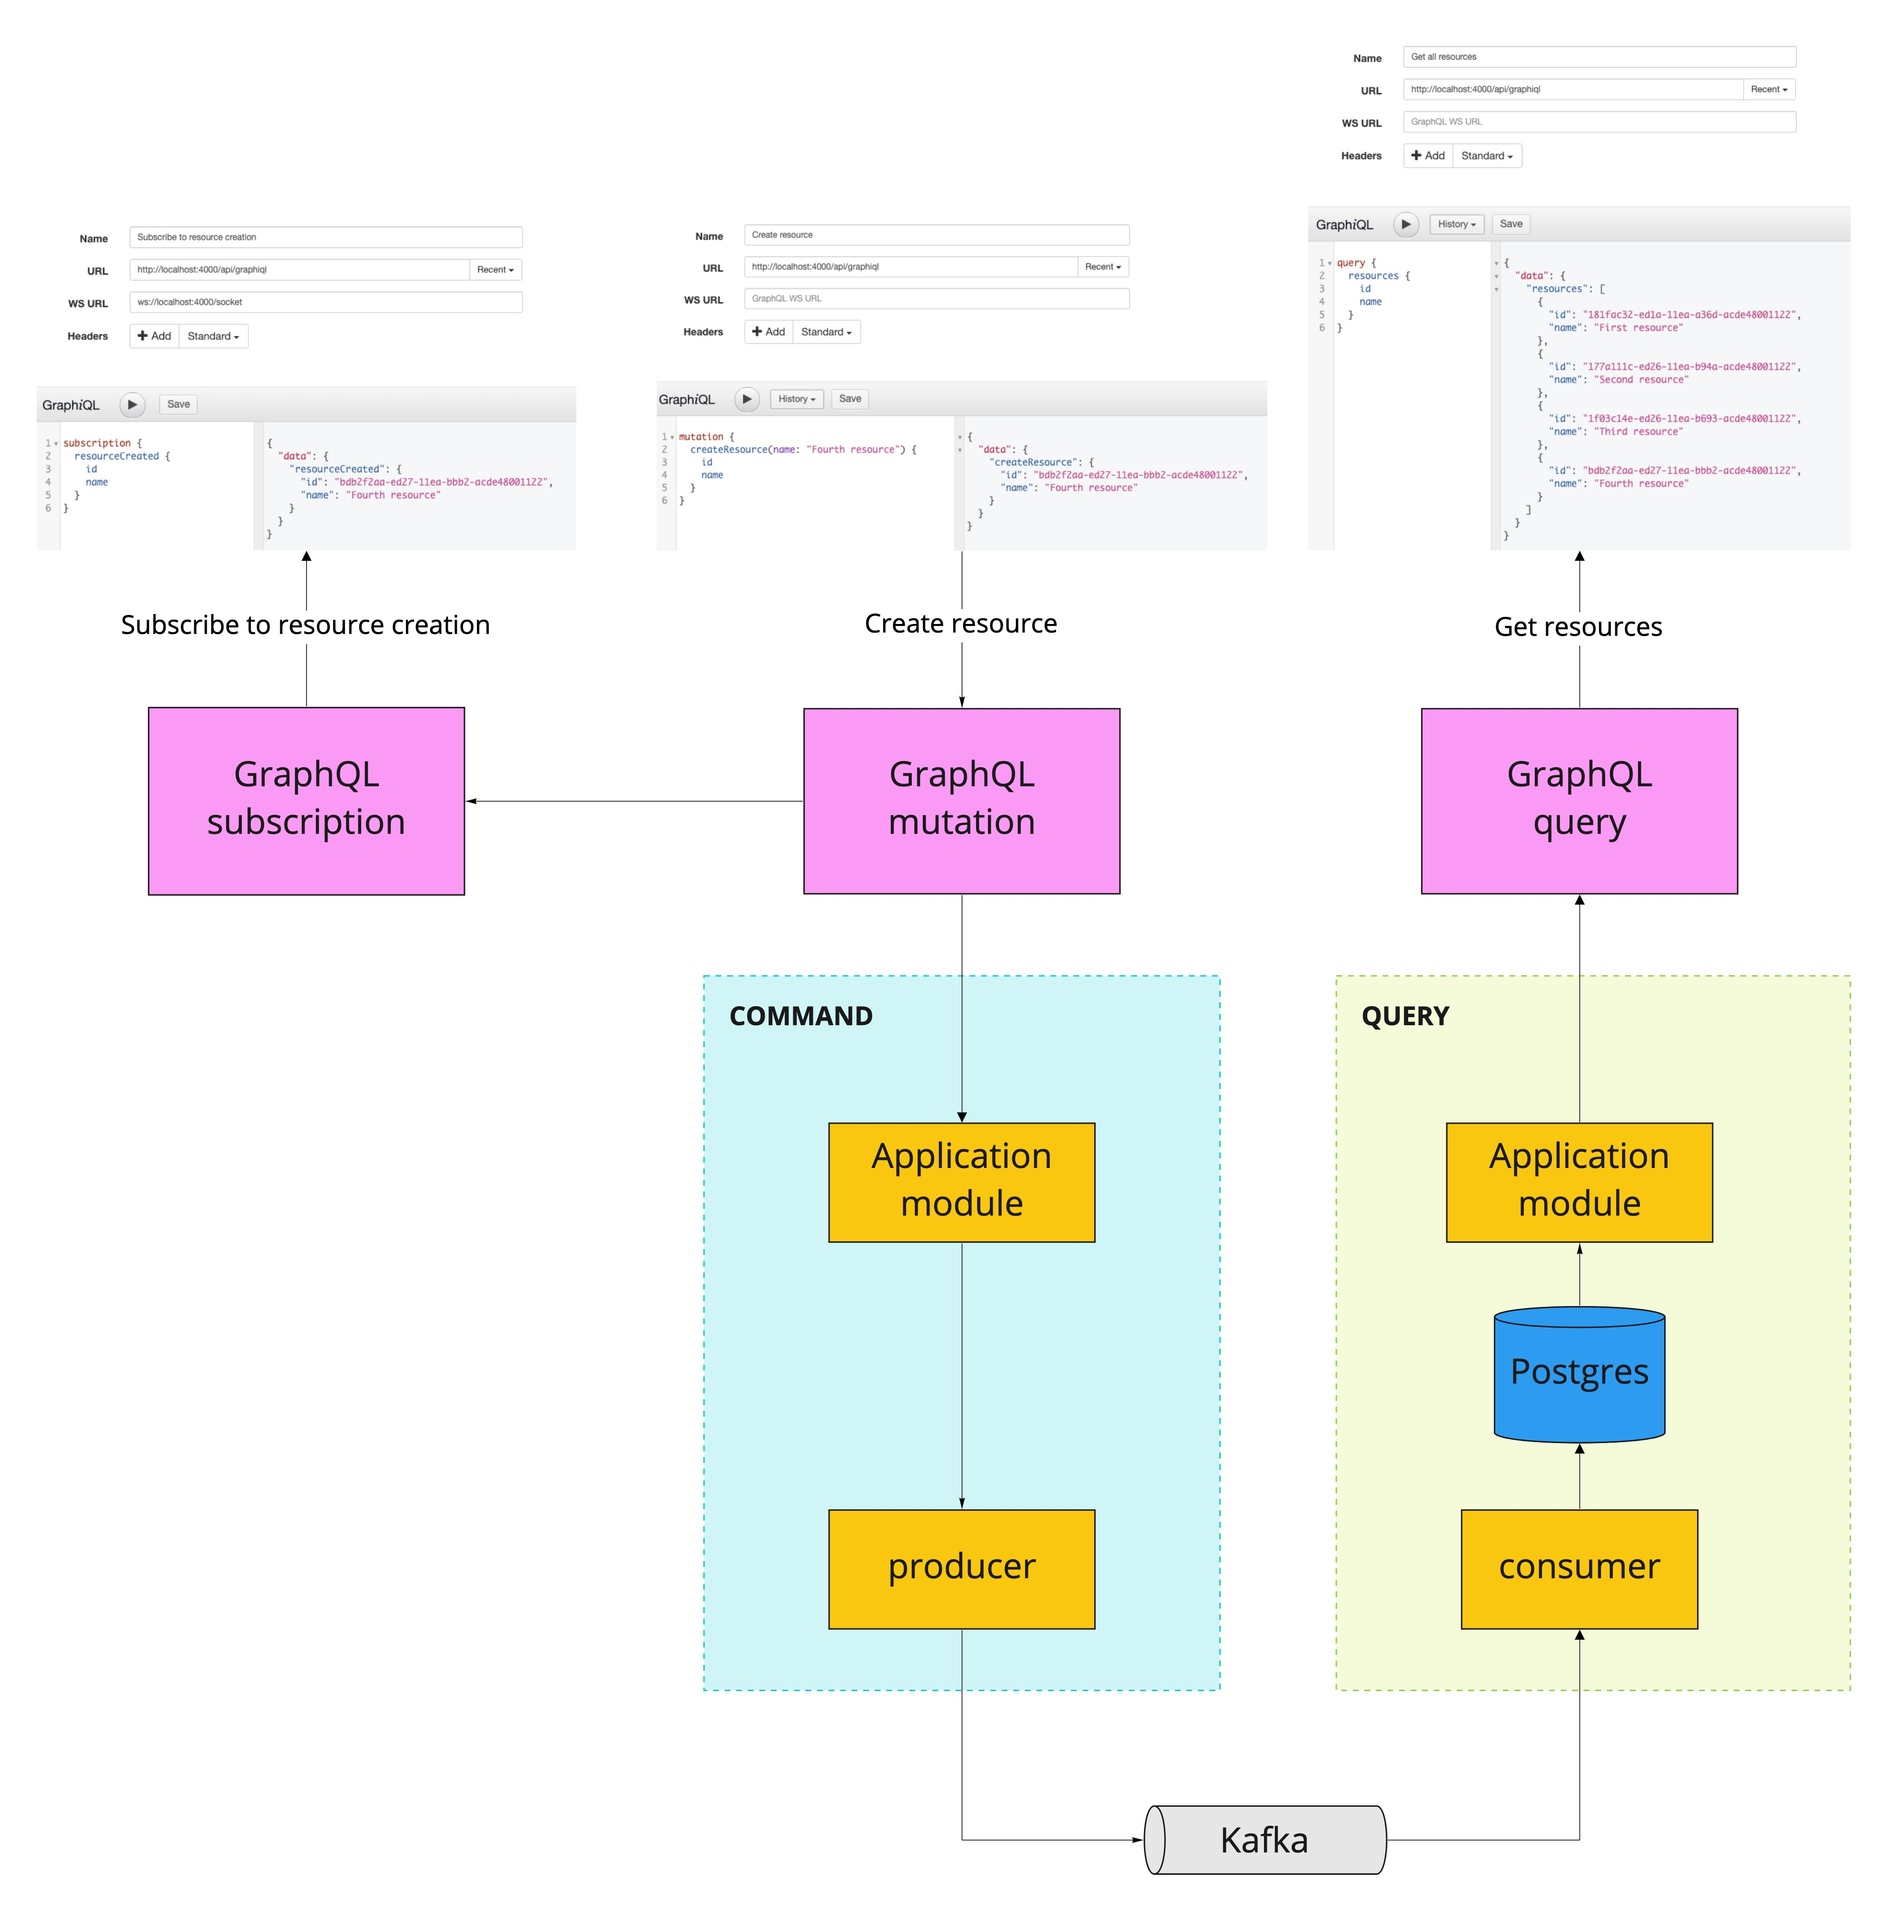
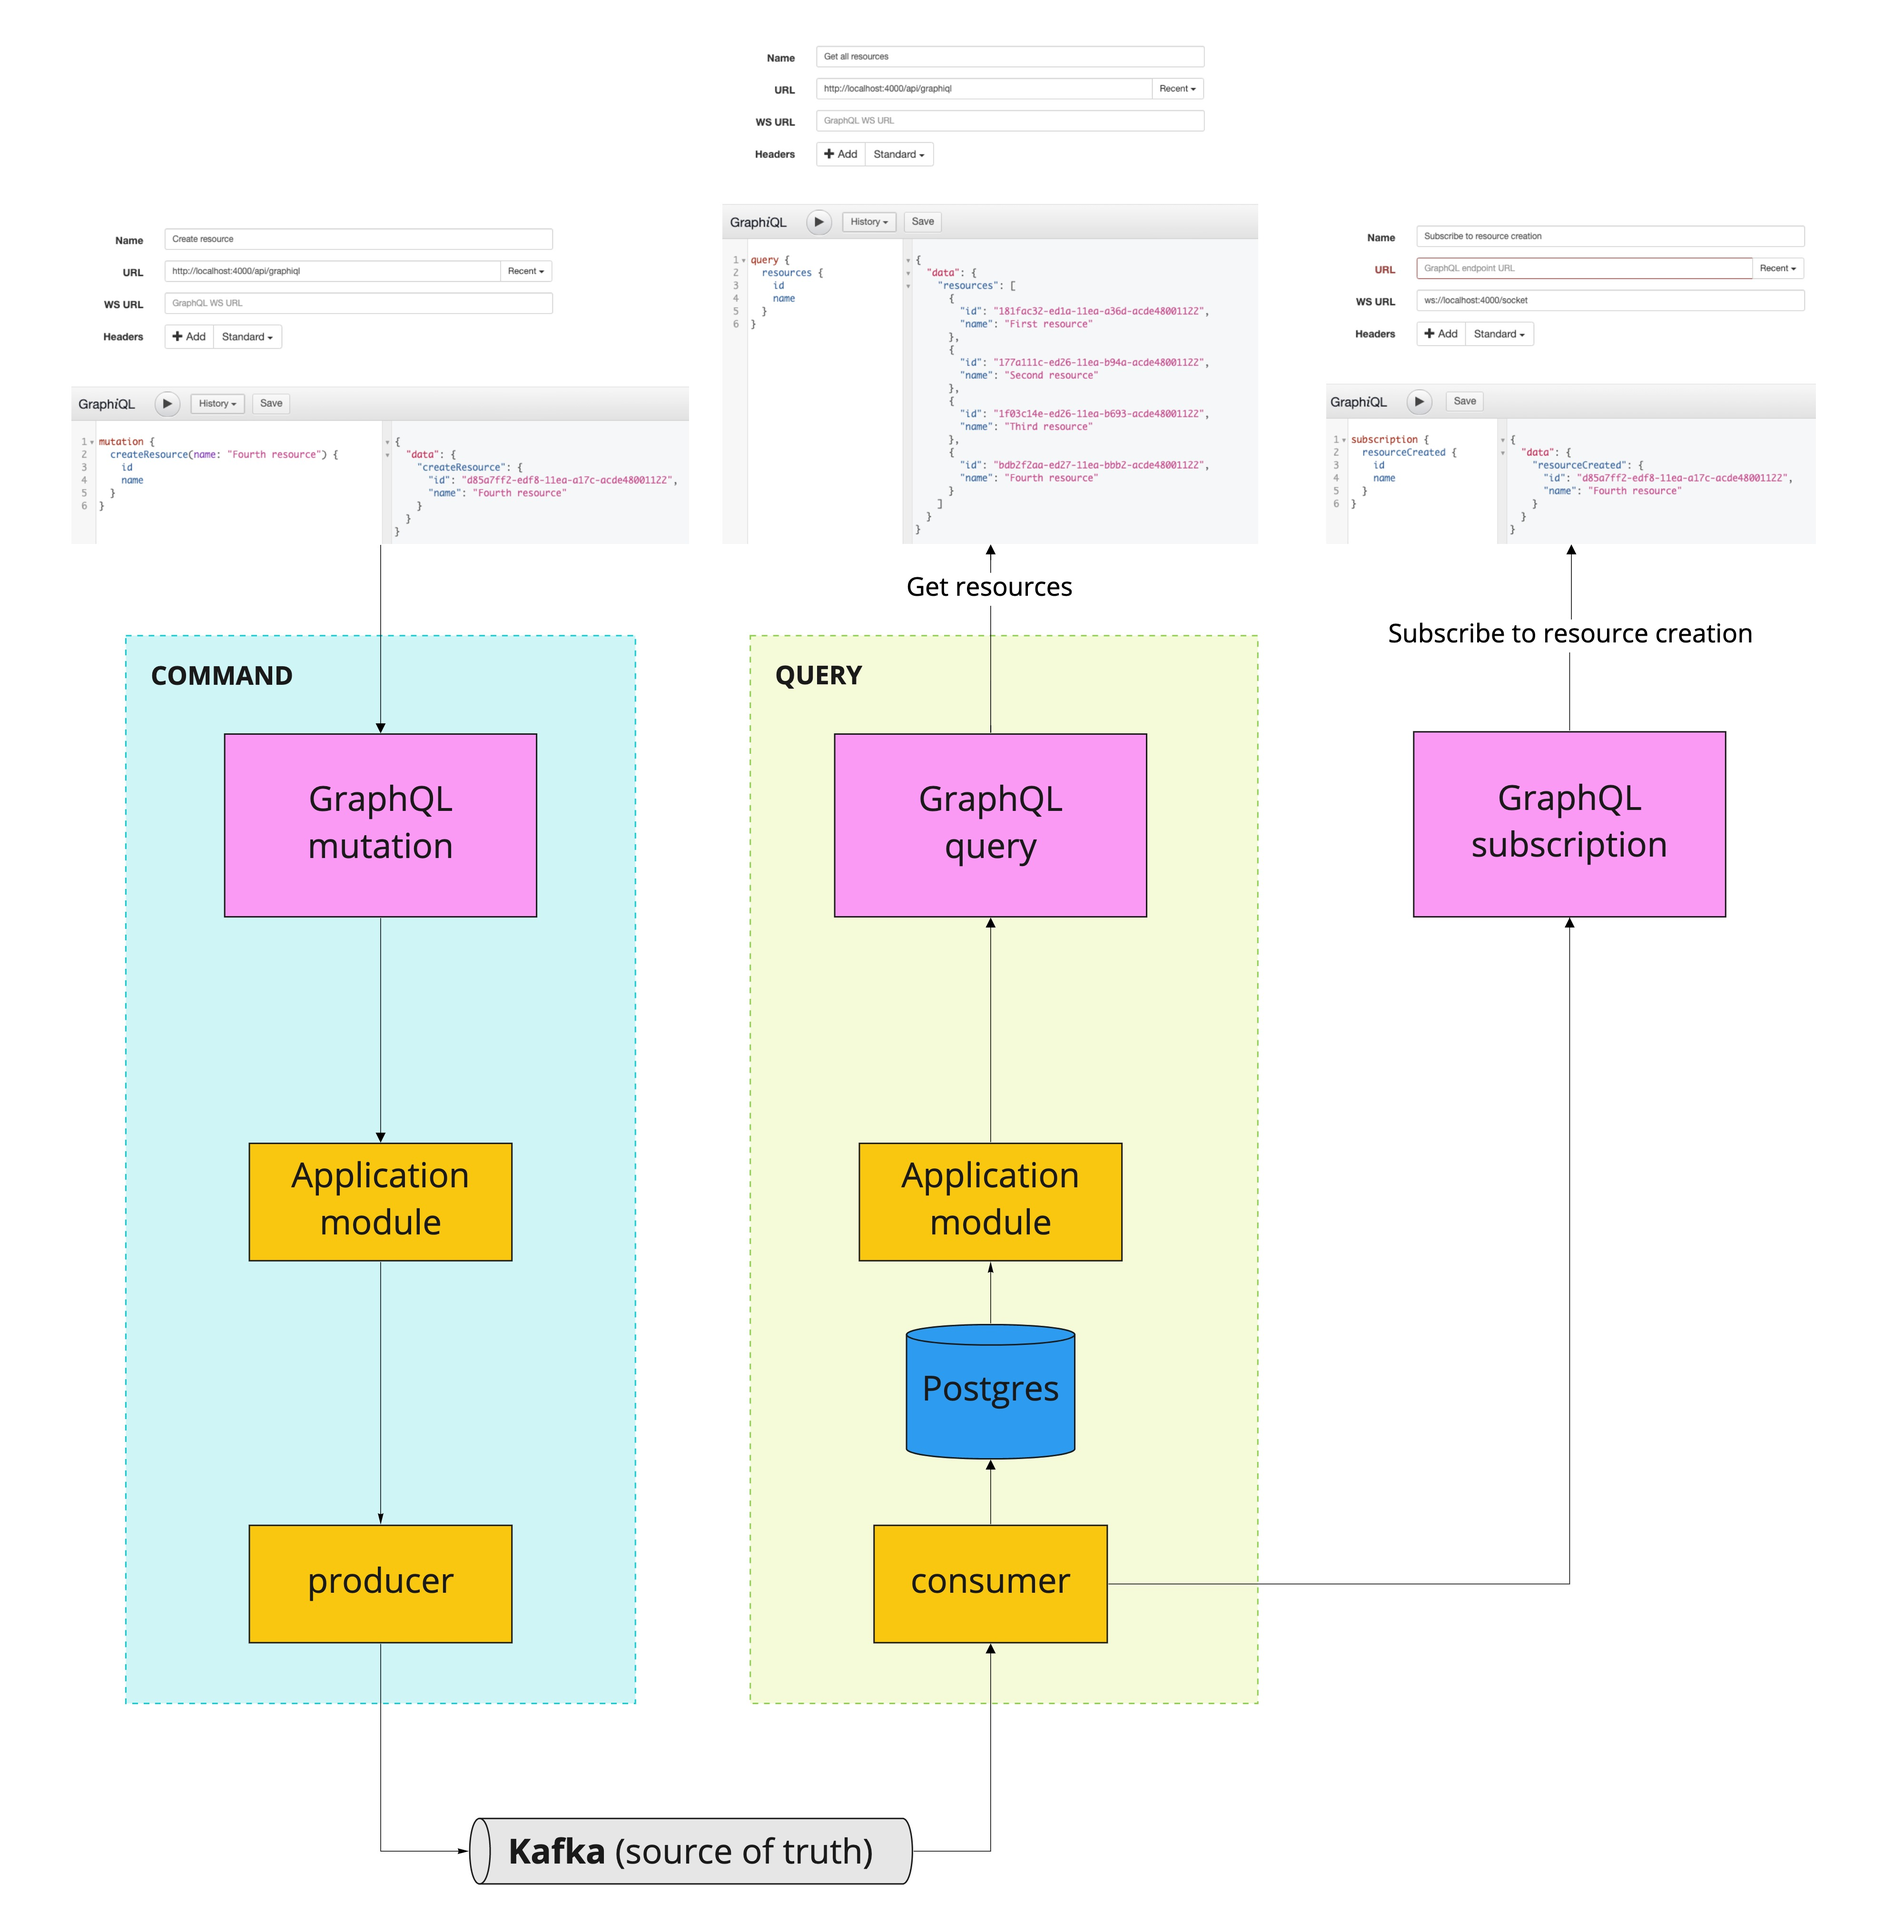
Update readme with latest architecture

diff --git a/README.md b/README.md
@@ -7,7 +7,8 @@ Bear in mind that this does not aim to teach anything, but it's more like a self
 Checkout the diagram below for an overview on the basic architecture:
 <img src="https://github.com/aviscasillas/elixir_async_api/blob/master/context_diagram.jpg">
 
-> Note that commands, queries and API, live within the same application (in favour of simplicity).
+> Note that, in favour of simplicity, commands, queries and API live all within the same application.
+> Because of that, queries and subscriptions are handled by the same processor but they would potentially live in separated applications.
 
 ## Run it
 
